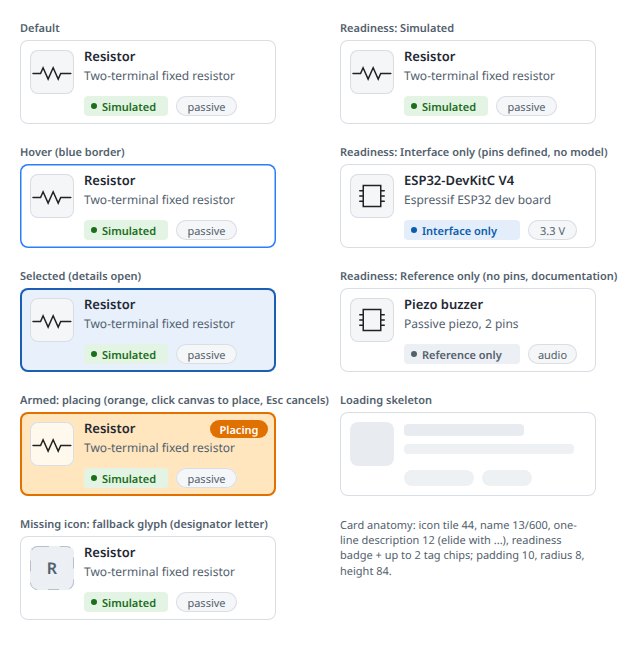
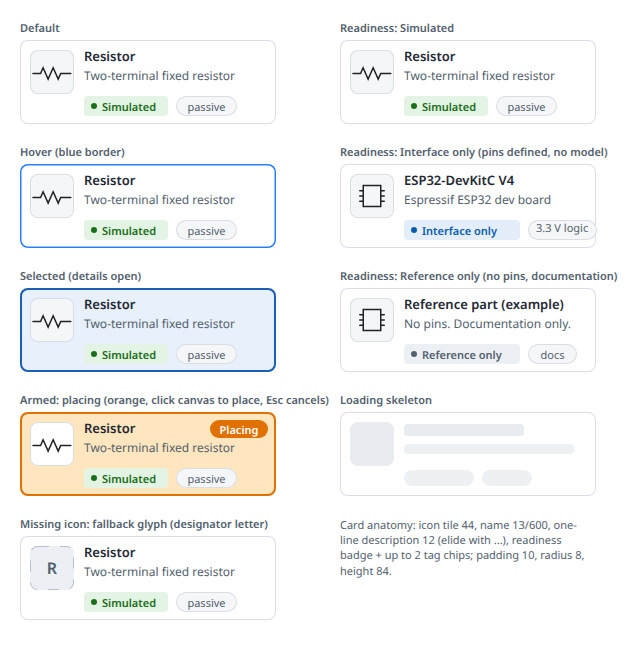
milestone: task 4 design review, plan amendments

Changed region(s): [[0.625, 0.4545, 0.9062, 0.5455], [0.8438, 0.3333, 0.9375, 0.3636]]

diff --git a/docs/milestone/03-design.md b/docs/milestone/03-design.md
@@ -9,7 +9,7 @@ Output of this task: the Penpot file, 28 PNG exports in `docs/milestone/design/`
 |---|---|
 | File | "New File 3" (open file of the connected plugin). **Not renamed**: `penpot.currentFile.name` is read-only in the plugin API (`TypeError: setting getter-only property "name"`). Rename it to "Sim Workspace" by hand in the Penpot UI. |
 | D18 (reuse a "Sim" file) | The Penpot MCP exposes only the one connected file, no project listing. There was nothing to reuse, so the design was built in this file. |
-| Pages | `Foundations` (3 frames), `Components` (6 section boards holding the 79 main components), `Screens` (2 frames), `States` (17 frames). |
+| Pages | `Foundations` (3 frames), `Components` (6 section boards holding the 79 main components), `Screens` (2 frames), `States` (18 frames; `results-running-blocked` added in T4). |
 | Library assets | 55 colours (`app-bg`, `wire`, ...), 10 typographies (`text/heading` ... `text/code`), token sets `sim/core` (55 colour tokens, `color.*`) and `sim/layout` (spacing, radius, sizing, font size and weight tokens: 26). |
 | Components | 79 Penpot components with path names (`Button / Primary / Default`). Screens use **instances** of them (top bar, buttons, search, nav items, toggle, cards, badges, field rows, pin rows, banners, state badges, zoom control, problem rows, dialogs, status bar). One Penpot variant group would have been tidier, but separate components per state were chosen because they instantiate and nest reliably through the plugin API. |
 | Fonts | Noto Sans (Google font in Penpot, installed locally per plan) and Noto Sans Mono for ids and code. |
@@ -141,7 +141,7 @@ All PNGs are in `docs/milestone/design/`. Frame names equal file names.
 
 | Frame | Purpose | PNG |
 |---|---|---|
-| `screen-workspace-led` | 1280 x 800 workspace: top bar with file / undo / redo and simulation controls (Completed state), library left (search, categories with counts, Simulated-only toggle, four cards, one hovered), canvas centre (LED circuit: battery, resistor R1 selected with part toolbar, LED D1 glowing with 9.18 mA, ground, wires, junction; ESP32 DevKitC box with 38 pins and "Interface only" badge; zoom control), results dock (signal picker, play + slider, plot with cursor, readout, stats, "ok, 511 points; not simulated: U1"), Problems list (one NOT-SIMULATED warning), inspector right (R1: header, resistance field, pins, docs), status bar | `design/screen-workspace-led.png` |
+| `screen-workspace-led` | 1280 x 800 workspace: top bar with file / undo / redo and simulation controls (Completed state), library left (search, categories with illustrative counts, Simulated-only toggle, four cards, none hovered, armed or selected; the Arduino card is the interface-only sample), canvas centre (LED circuit: battery, resistor R1 selected with part toolbar, LED D1 glowing with 9.18 mA, ground, wires, junction; ESP32 DevKitC box with 38 pins and "Interface only" badge; zoom control), results dock (signal picker, play + slider, plot with cursor, readout, stats, "ok, 511 points; not simulated: U1"), Problems list (one NOT-SIMULATED warning), inspector right (R1: header, resistance field, pins, docs), status bar | `design/screen-workspace-led.png` |
 | `interaction-spec` | Input / result / feedback table for every interaction | `design/interaction-spec.png` |
 
 ### States (page `States`)
@@ -164,6 +164,7 @@ All PNGs are in `docs/milestone/design/`. Frame names equal file names.
 | `inspector-other-states` | Nothing selected (circuit and simulation summary), wire selected (endpoints, node, Plot node, Delete), placeholder selected (read-only parameters, reason banner, pins from connections), unsupported ESP32 selected (pins, limitations, docs, "Interface only") | `design/inspector-other-states.png` |
 | `sim-controls-states` | Top bar with simulation controls: idle (valid), invalid field, running, completed, failed, stale, blocked by pre-check (with the messages) | `design/sim-controls-states.png` |
 | `results-states` | Completed with excluded part, failure (message, no plot), not run yet, signal picker open (grouped), "Show details" expanded (core findings + developer text), stale (dimmed + banner), pause specimen | `design/results-states.png` |
+| `results-running-blocked` (T4) | Results while Running (controls locked, previous results hidden, progress bar) and Blocked by pre-check (run did not start, error banner, no plot) | `design/results-running-blocked.png` |
 | `dialogs` | Unsaved changes, open failed, opened-with-placeholders banner (non-blocking) with status-bar message | `design/dialogs.png` |
 
 ## 4. Component inventory (Penpot main components)
@@ -228,12 +229,84 @@ Everything else in plan §9 points 1-8 has a frame.
 
 ## 8. Deliberate deviations from the plan text
 
-1. **Readiness label "Interface only"** (brief wording) instead of the plan §4 UI label "Not simulated". Plan T8 test `test_unsupported_part_inspector` asserts a "Not simulated" badge. Resolution for T8: the badge text is "Interface only". Keep "Not simulated" as the badge tooltip and as the wording in the problems and results messages. Adjust that test to look for the badge by role, or for either string.
+1. **Readiness label "Interface only"** (brief wording) instead of the plan §4 UI label "Not simulated"; "Simulated" instead of "Simulates". Badge wording and tooltips are fixed by rule R3 in §9.4 (T4).
 2. **Extra readiness values** "Placeholder" and "Invalid" (brief) next to Simulated / Interface only / Reference only.
 3. **Results layout.** Results (430 px) and Problems (250 px) sit side by side in a 248 px dock below the canvas. Plan §9 allowed bottom or right.
-4. **Run / Re-run emphasis.** Run is primary before the first run. Once results exist (completed, failed, stale) Re-run is primary and Run is disabled, because Re-run does the same. The current app keeps Run enabled; either is acceptable, T9 may keep Run enabled if simpler. Blocked by pre-check disables Run, Re-run and Reset and shows the first error.
+4. **Run / Re-run / Reset.** Decided in T4, rule R2 in §9.4. Run is disabled once results exist, Re-run is primary, and Reset is disabled while running.
 5. **Esc in the search field clears the text** and the empty-state offers "Clear search". The plan only specifies the action.
 6. **LED glow** is drawn in Penpot as three concentric translucent circles (64, 44, 26 px). T9 keeps the existing radial gradient (`(255,140,60)` to `(255,60,20)`); the mapping (0.1 mA dark, 15 mA full) is unchanged.
-7. **Category counts follow the current search** (all 0 on an empty search). The plan says only "with counts".
+7. **Category counts follow the current search** (all 0 on an empty search). The plan says only "with counts". The sample counts on the screen are illustrative (rule R4 in §9.4).
 8. **Pin and canvas label sizes** stay at today's 9 pt (12 px) for canvas labels. The rest of the chrome moves to the 10 pt body size.
 9. The Penpot file could not be renamed from the plugin (section 1).
+
+## 9. Review (T4)
+
+Date 2026-10-08. Scope: plan §9 items 1-8, §4 capability model, all 28 PNGs viewed. Changed or added: 16 PNGs (15 re-exported, 1 new: `results-running-blocked.png`), 29 PNGs in total. No component was added (79 main components, unchanged). Code is not touched.
+
+### 9.1 Checklist against plan §9
+
+| Plan §9 item | Required content | Frame(s) | Status |
+|---|---|---|---|
+| 1 Workspace layout | Top bar, library 280, canvas, inspector 320, results, Problems, status bar | `screen-workspace-led` | present |
+| 2 Library panel | Search, All + categories with counts, Simulated only, card list (icon, name, description, badge, tags), hover / selected / armed, details view (description, pins, params with units, limitations, docs, version, id) | `screen-workspace-led`, `library-card-states`, `library-details` | present. Details trigger was missing from the interaction spec; added (9.4 R1) |
+| 3 Library states | Empty search, empty category, loading skeleton, catalog-problems banner (collapsed and expanded), missing-icon card | `library-empty-states`, `library-catalog-problems`, `library-card-states` | present |
+| 4 Canvas | Part idle / hover / selected / dragging; pin open / wired / hover / pending wire / junction; wire hover / selected; rotate and delete; zoom controls and pan cursor; empty hint; unsupported badge; placeholder; core-finding ring; LED glow and label | `canvas-part-states`, `canvas-pin-states`, `canvas-wire-states`, `canvas-navigation`, `canvas-empty-hint`, `canvas-unsupported-placeholder`, `canvas-led-glow`, `canvas-placing-armed` | present |
+| 5 Inspector | Nothing selected; part header (icon, name, type, badge, version); param form (number + unit + SI hint, choice, `when` fields, invalid); pins list; limitations; docs; wire selected; placeholder selected; unsupported part selected | `inspector-other-states`, `inspector-part-states` | present |
+| 6 Simulation controls | Analysis label; stop and step fields valid / invalid; Run, Re-run, Reset; state badges idle, running, completed, failed, stale, blocked; blocked by pre-check | `sim-controls-states`, `components-canvas-topbar-status`, `results-running-blocked` (blocked result) | present. Blocked result panel added |
+| 7 Results | Signal picker grouped; plot with cursor; play / pause and slider; readout; final / min / max; core findings; developer text; success message "not simulated: U1"; failure without plot | `results-states`, `results-running-blocked` | present. Running state added |
+| 8 Dialogs | Unsaved changes; open failed; opened with placeholders (non-blocking banner) | `dialogs` | present |
+
+Missing items found and filled: (a) results while Running (no frame); (b) results for a pre-check block (only the badge existed); (c) the details-view trigger (no input in the interaction spec). Not drawn, specified in text only: the inspector's "Not simulated" tooltip (rule R3).
+
+### 9.2 Consistency fixes made in Penpot
+
+- **Library highlight.** The Arduino card on `screen-workspace-led` was `Card / Hover` (blue border) while R1 was selected in the canvas. It now has the default border (instance override, renamed "Card / Default (Interface only)"). No card on the screen is hovered, armed or selected.
+- **Piezo sample.** `library-card-states` showed PIEZO_BUZZER as "Reference only" with two pins. T7 gives it two pins, so it is Interface only and cannot be Reference only. The slot now shows an illustrative "Reference part (example)" with no pins.
+- **Tag chips.** "wifi" is a keyword (search-only, plan §2), not a tag. The five "wifi" chips in `Component library cards` now read "passive". The ESP32 chip reads "3.3 V logic" (its T7 tag).
+- **Off-token colours.** #F8DCDC (invalid field unit cell) changed to #FFF0F0 (`INVALID_BG`); #FFF8EC (armed card tile) to #FFFFFF; #FBF8FE (placeholder body, dialog sample) to #EFE8F8 at 50 % (`RDY_PH_BG`).
+- **Type scale.** Canvas and pin labels were 9 px (the pt value used as px). Now 12 px (`small`, §2.2). The ESP32 module label is 11 px (caption) so it does not wrap to three lines. The "FUTURE_RELAY v3" label is 11 px auto-width. Medium 12 px labels in app frames are 13 px (`body-medium`). Results overlines were 10 px and are 12 px / 600 (`small-strong`). Foundations sheet titles (18-36 px) are left as presentation headings.
+- **Run state.** The Running row and the Components main `SimControls / Running` now show Reset disabled (rule R2). Its caption was updated to match.
+- **Interaction spec.** The "Click a library card" row now names the details path.
+
+### 9.3 Feasibility in Qt (checked in the file)
+
+- The file has 0 drop shadows, 0 blurs and 0 gradient fills across 3,915 shapes. Nothing needs simplifying for QWidgets or QGraphicsView.
+- Dialog scrim (45 % flat overlay), tooltips and cards are flat rectangles with 1 px borders. Fusion style and QPainter can draw them directly.
+- LED glow is three translucent circles in Penpot. T9 uses the existing radial gradient (§8 item 6), which Qt supports; the flat-ring fallback is also acceptable.
+
+### 9.4 Rules decided in T4
+
+- **R1 Library highlight and inspector.** Four independent states in the library list:
+  - Hover is a transient mouse state (blue border), never persisted.
+  - Armed (placing) is the orange card with the "Placing" pill. Exactly one card, until the part is placed, Esc is pressed or the card is clicked again.
+  - Selected (details open) is the soft-blue card whose details view is open. It stays on that card when the list returns, until another card is opened or armed.
+  - The inspector shows canvas selection only. Canvas selection never highlights a library card, and library state never changes the inspector.
+  - Details open via right-click on a card, "Details" (keyboard: focus the card and press Shift+Enter). Back returns to the list (the "All components" link). This trigger is not in plan §5 and T8 must implement it.
+- **R2 Run / Re-run / Reset.**
+
+  | State | Run | Re-run | Reset | Results panel |
+  |---|---|---|---|---|
+  | Idle, valid | primary | disabled | disabled | "No results yet" |
+  | Invalid field | disabled | disabled | disabled | unchanged, message under the field |
+  | Running | disabled | disabled | disabled (no cancel in v1) | "Running", previous results hidden |
+  | Completed | disabled | primary | enabled | plot, readout, stats |
+  | Failed (engine error) | disabled | primary | enabled | "Run failed", message, no plot |
+  | Stale | disabled | primary | enabled | results dimmed, banner |
+  | Blocked by pre-check | disabled | disabled | disabled | "Run blocked", first error, no plot |
+
+  F5 runs the enabled primary action. Re-run = Reset plus Run. Reset clears results and returns to Idle. This differs from the current app (Run stays enabled after results); T9 follows this table.
+- **R3 Badge and readiness wording.**
+  - Badge text is "Interface only" on every surface (library card, inspector, canvas, details). The placeholder badge is "Placeholder", and "Simulated" / "Reference only" are as in §2.1.
+  - Badge tooltip on library and inspector: "Not simulated". On the canvas, the item tooltip is `limitations[0]` as plan T9 says.
+  - Messages (problem rows, run messages, banners) use "not simulated" wording, e.g. "U1 ... is not simulated and is excluded from the run".
+  - T8 test `test_unsupported_part_inspector` asserts the badge text "Interface only" and the tooltip "Not simulated". The canvas test asserts `limitations[0]`.
+- **R4 Category counts.** The counts on the screen (Electrical 10, Microcontrollers 2, Sensors 1, Displays 1, Audio 1, Power 1; total 16) are illustrative. They follow the T7 seed list where it names parts (ESP32 and Arduino in Microcontrollers, DHT22 in Sensors, SSD1306 in Displays, PIEZO in Audio). The real counts come from the catalog. An empty category uses `library-empty-states`. Communication is not shown (T7).
+- **R5 LED current label.** The canvas label shows 3 significant figures (9.18 mA). The results readout shows 4 (9.177 mA). Both come from the same value.
+
+### 9.5 Open items (not resolved in T4)
+
+1. **Pre-check block versus plan text.** Plan T9 (`test_run_blocked_by_wired_unsupported_shows_failure_without_plot`) and T10 scenario 5 say "failed". The design (R2) uses "Blocked", because the run never started. Needs approval; if rejected, the Blocked badge becomes "Failed" and the state table row changes.
+2. **Power category.** Plan T7 requires `test_categories_present` to include Power, but no seed part is named for it. T7 must add one, or the category shows the empty state.
+3. **Electrical count.** Illustrative only (10). T7 decides it.
+4. **Results and details are drawn.** The plan inventory has no Results or details components, so these panels are drawn shapes (the new frame clones the `results-states` panels). T9 builds them from the token table.
+5. **Penpot file name** is still "New File 3" (section 1).

diff --git a/docs/milestone/02-plan.md b/docs/milestone/02-plan.md
@@ -534,3 +534,11 @@ Scenarios:
 7. **Templates as an injection path.** Identifier-only placeholders, a `{dev} ` prefix, `.model` only, a fixed letter set, numeric values via `repr(float)`, and choices matching a regex. The core still refuses control-flow escapes.
 8. **Penpot details impractical in Qt** (blur, custom fonts, complex shadows). T8/T9 adapt and log each deviation with a reason. The design note should prefer flat styles.
 9. **Partial-run semantics (D7) may surprise users.** The message and the Problems list always name excluded parts. Reviewers (T11/T12) should challenge this rule explicitly.
+
+## 12. Amendments after design review (T4)
+
+- A1: A Run refused by the pre-check (e.g. a wired unsupported part) uses run state **`blocked`** (badge "Blocked", no plot, message names the parts), distinct from `failed` (the engine ran and errored). T9/T10 tests that say "failed" for a pre-check refusal must assert `blocked` instead (e.g. `test_run_blocked_by_wired_unsupported_shows_failure_without_plot` → asserts blocked state).
+- A2: Readiness badge text is "Interface only"; "Not simulated" is the tooltip/message wording. T8 tests assert both (see 03-design.md §9.4 R3).
+- A3: Run/Re-run/Reset enablement follows 03-design.md §9.4 R2.
+- A4: Library card highlight vs inspector selection follows 03-design.md §9.4 R1. The card details view opens on right-click or Shift+Enter (T8).
+- A5: Category counts in the design are illustrative; real counts come from the catalog. Power is populated by BAT (§10 T5).
